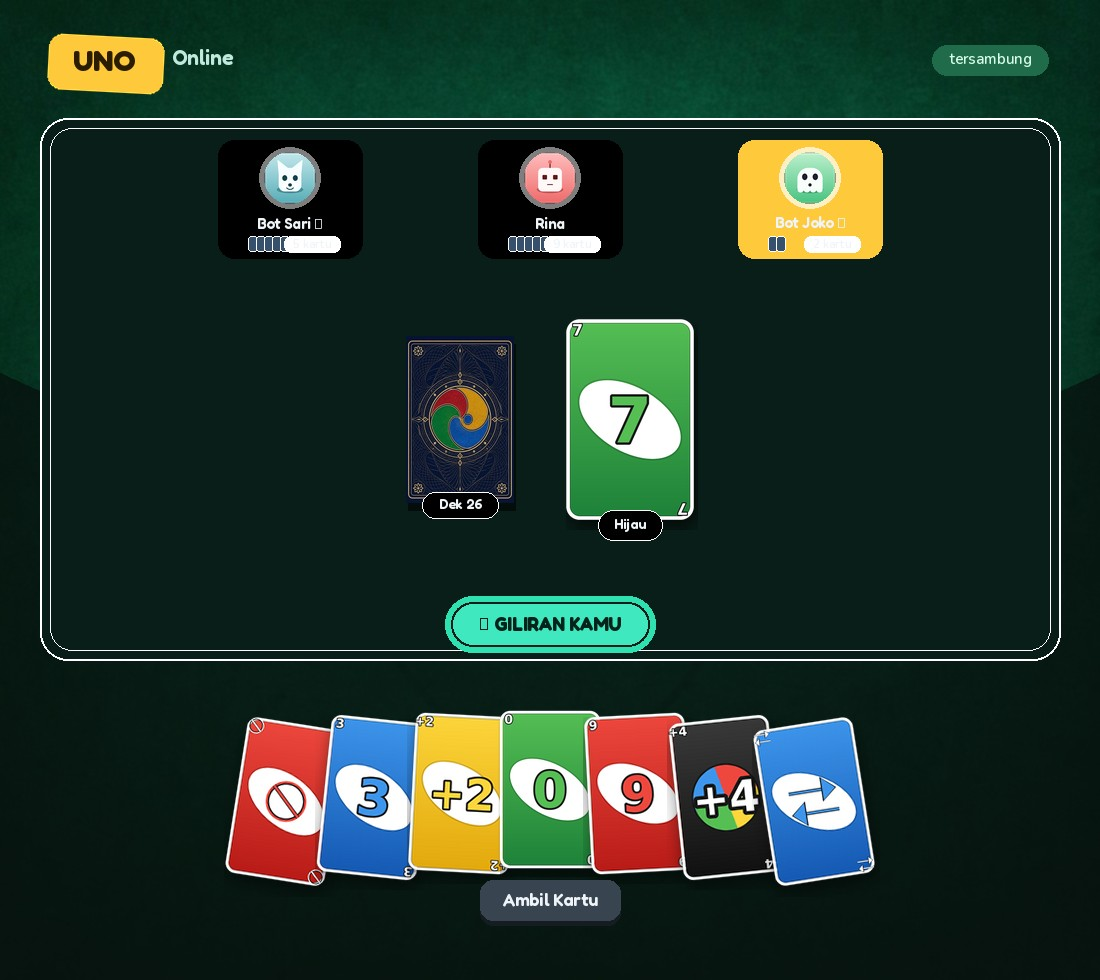
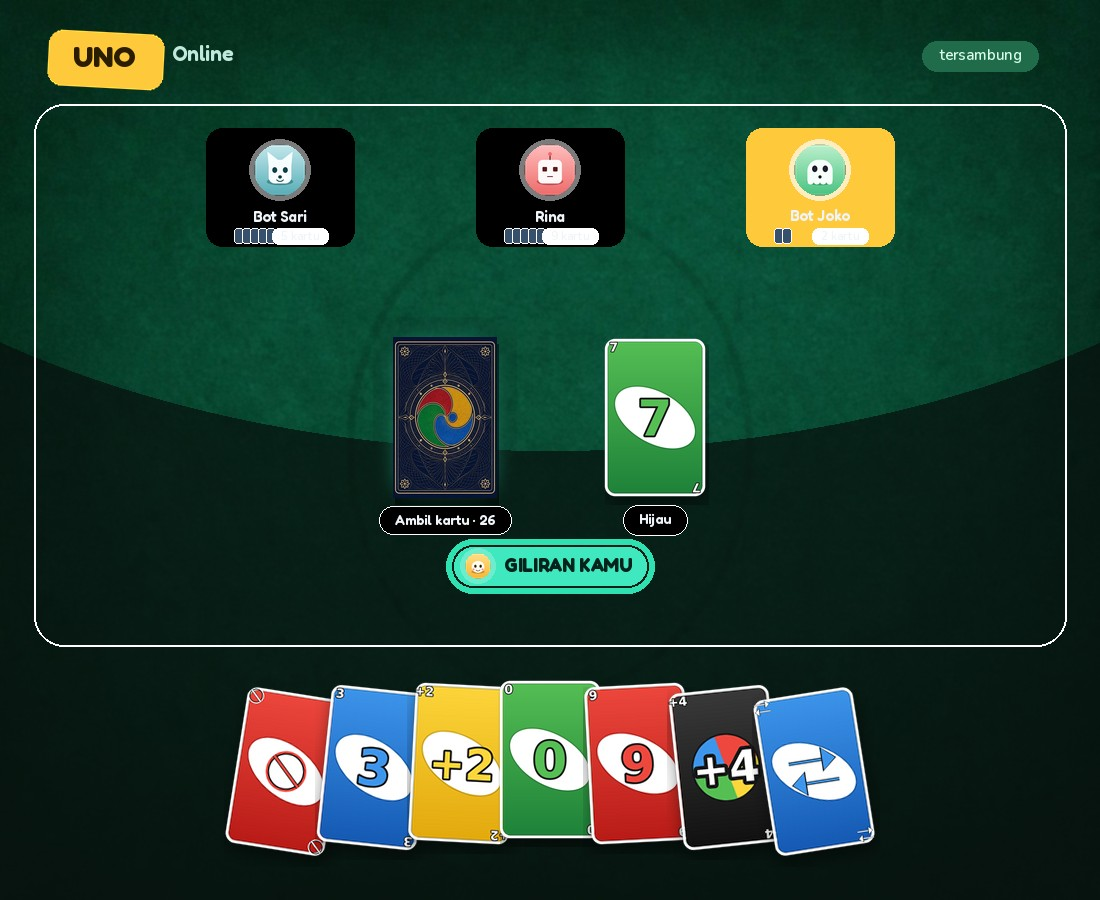
Perbaiki tata letak meja permainan
Tiga masalah dari laporan pemakaian:
1. Meja terlihat berada di dalam kotak panel, bukan langsung di atas felt seperti
   di pratinjau. Layar permainan sekarang keluar dari kolom .app (100vw) dan
   .table-felt tidak lagi punya latar/bingkai sendiri - felt halaman yang jadi
   mejanya, hanya ditandai cincin putus-putus.
2. Ada dua cara mengambil kartu (menekan tumpukan DAN tombol 'Ambil Kartu').
   Tombol dihapus. Tumpukan sekarang berdenyut dan bercahaya saat giliranmu,
   dengan label 'Ambil kartu - N' supaya jelas bisa diklik.
3. Kartu di tumpukan buangan menempel terlalu dekat dengan tumpukan ambil.
   Jarak antar tumpukan jadi clamp(44px, 9vw, 96px) dan tiap tumpukan punya
   lebar minimum, jadi tidak akan bertabrakan di ukuran layar mana pun.

Pita giliran juga dipindah ke aliran normal (tidak lagi absolute) supaya tidak
menimpa apa pun.

docs/preview-game.jpg diperbarui.

diff --git a/client/style.css b/client/style.css
@@ -61,12 +61,14 @@ body {
     background-position: center;
     background-attachment: fixed;
     -webkit-font-smoothing: antialiased;
+    /* #screenGame memakai 100vw untuk keluar dari kolom; cegah geser horizontal */
+    overflow-x: hidden;
 }
 
 /* --- Kerangka ------------------------------------------------------------- */
 .app {
     width: 100%;
-    max-width: 1080px;
+    max-width: 1180px;
     margin: 0 auto;
     padding: 18px 16px 48px;
     min-height: 100%;
@@ -403,24 +405,30 @@ input[type="text"]:focus { outline: none; border-color: var(--mint); box-shadow:
 .tag.bot  { color: var(--violet); }
 
 /* --- Meja permainan ------------------------------------------------------- */
-.table-wrap { display: flex; justify-content: center; }
+/* Layar permainan keluar dari kolom .app supaya duduk LANGSUNG di atas felt,
+   bukan berada di dalam kotak panel. */
+#screenGame {
+    width: 100vw;
+    margin-left: calc(50% - 50vw);
+    margin-right: calc(50% - 50vw);
+    padding: 0 clamp(8px, 2.5vw, 32px);
+}
+
+.table-wrap { display: block; }
+
+/* Meja tidak punya latar sendiri — felt halaman yang jadi mejanya. */
 .table-felt {
     position: relative;
     width: 100%;
-    border-radius: 28px;
-    padding: 18px 18px 92px;
-    background:
-        radial-gradient(ellipse 70% 60% at 50% 45%, rgba(255, 255, 255, .07), transparent 70%),
-        linear-gradient(180deg, rgba(10, 30, 24, .72), rgba(6, 20, 16, .86));
-    border: 2px solid rgba(255, 255, 255, .07);
-    box-shadow: inset 0 0 0 8px rgba(0, 0, 0, .22), inset 0 0 60px rgba(0, 0, 0, .55), 0 20px 40px rgba(0, 0, 0, .4);
+    padding: 14px 14px 10px;
 }
 .table-felt::after {
     content: '';
     position: absolute;
-    inset: 10px;
-    border: 1px dashed rgba(255, 255, 255, .09);
-    border-radius: 22px;
+    inset: 2px;
+    border: 2px dashed rgba(255, 255, 255, .10);
+    border-radius: 30px;
+    box-shadow: inset 0 0 90px rgba(0, 0, 0, .40);
     pointer-events: none;
 }
 
@@ -485,12 +493,12 @@ input[type="text"]:focus { outline: none; border-color: var(--mint); box-shadow:
 .table-center {
     display: flex;
     justify-content: center;
-    align-items: center;
-    gap: 34px;
-    padding: 14px 0 6px;
-    min-height: 158px;
+    align-items: flex-start;
+    gap: clamp(44px, 9vw, 96px);
+    padding: 20px 0 8px;
+    min-height: 172px;
 }
-.pile { display: flex; flex-direction: column; align-items: center; gap: 9px; }
+.pile { display: flex; flex-direction: column; align-items: center; gap: 9px; min-width: 108px; }
 .pile-label {
     font-family: 'Fredoka', sans-serif;
     font-size: .78rem;
@@ -513,6 +521,17 @@ input[type="text"]:focus { outline: none; border-color: var(--mint); box-shadow:
     filter: drop-shadow(0 10px 14px rgba(0, 0, 0, .6));
 }
 .card-back-img:hover { transform: translateY(-6px) rotate(-2deg); filter: drop-shadow(0 14px 18px rgba(0,0,0,.65)) brightness(1.08); }
+/* Tumpukan berdenyut saat giliranmu — ini satu-satunya cara mengambil kartu,
+   jadi harus jelas terlihat bisa diklik. */
+.card-back-img.can-draw {
+    cursor: pointer;
+    animation: deck-nudge 1.8s ease-in-out infinite;
+    filter: drop-shadow(0 0 16px var(--mint)) drop-shadow(0 10px 14px rgba(0, 0, 0, .6));
+}
+@keyframes deck-nudge {
+    0%, 100% { transform: translateY(0) rotate(0deg); }
+    50%      { transform: translateY(-8px) rotate(-2.5deg); }
+}
 /* Kartu di tumpukan buangan dibuat seukuran punggung kartu */
 .card-display .card.image-card,
 .card-display .card.image-card.small { width: 92px; height: 142px; }
@@ -527,10 +546,9 @@ input[type="text"]:focus { outline: none; border-color: var(--mint); box-shadow:
 
 /* Pita giliran */
 .turn-banner {
-    position: absolute;
-    left: 50%;
-    bottom: 18px;
-    transform: translateX(-50%);
+    position: relative;
+    margin: 20px auto 8px;
+    width: fit-content;
     display: flex;
     align-items: center;
     gap: 9px;
@@ -579,7 +597,6 @@ input[type="text"]:focus { outline: none; border-color: var(--mint); box-shadow:
 .deal-in { animation: deal-in .3s cubic-bezier(.2, .9, .3, 1.2) backwards; }
 @keyframes deal-in { from { transform: translateY(70px) scale(.7); opacity: 0; } }
 
-.hand-actions { margin-top: 6px; }
 .game-actions { margin-top: 18px; }
 
 /* --- Obrolan -------------------------------------------------------------- */
@@ -697,11 +714,12 @@ input[type="text"]:focus { outline: none; border-color: var(--mint); box-shadow:
     .card-display .card.image-card,
     .card-display .card.image-card.small { width: 72px; height: 111px; }
     .card-back-img { width: 72px; height: 111px; }
-    .table-center { gap: 20px; min-height: 128px; }
+    .table-center { gap: 40px; min-height: 136px; }
+    .pile { min-width: 84px; }
     .seat { min-width: 84px; padding: 8px; }
     .seat .avatar-ring { width: 42px; height: 42px; }
     .hand-cards { min-height: 116px; }
-    .turn-banner { font-size: .85rem; padding: 7px 15px; bottom: 12px; }
+    .turn-banner { font-size: .85rem; padding: 7px 15px; margin-top: 14px; }
     .chat-log { height: 132px; }
     .player-grid { grid-template-columns: 1fr; }
     .brand-sub { display: none; }

diff --git a/client/app.js b/client/app.js
@@ -73,7 +73,6 @@ const el = {
     discardPileTopCard: $('discardPileTopCard'),
     drawPile: $('drawPile'),
     playerHand: document.querySelector('.hand-cards'),
-    drawCardBtn: $('drawCardBtn'),
     rematchBtn: $('rematchBtn'),
     leaveGameBtn: $('leaveGameBtn'),
 
@@ -587,7 +586,7 @@ function renderGame() {
         el.opponents.innerHTML = '';
         el.playerHand.innerHTML = '';
         el.discardPileTopCard.innerHTML = '';
-        el.drawCardBtn.disabled = true;
+        el.drawPile.classList.remove('can-draw');
         el.rematchBtn.hidden = true;
         return;
     }
@@ -624,7 +623,7 @@ function renderGame() {
 
     el.activeColor.textContent = colorLabel(game.currentColor);
     el.deckInfo.textContent =
-        `Dek ${game.deckCount}` + (game.direction === -1 ? ' ↺' : '');
+        `Ambil kartu · ${game.deckCount}` + (game.direction === -1 ? ' ↺' : '');
 
     // Cahaya di tumpukan buangan mengikuti warna aktif
     const glow = {
@@ -693,7 +692,8 @@ function renderGame() {
         el.playerHand.appendChild(cardEl);
     });
 
-    el.drawCardBtn.disabled = !app.isMyTurn;
+    // Mengambil kartu dilakukan dengan menekan tumpukan — tidak ada tombol kedua.
+    el.drawPile.classList.toggle('can-draw', app.isMyTurn);
     el.rematchBtn.hidden = !(game.winner !== null && isHost());
 }
 
@@ -756,7 +756,6 @@ function drawCard() {
 // Event listener
 // ---------------------------------------------------------------------------
 
-el.drawCardBtn.addEventListener('click', drawCard);
 el.drawPile.addEventListener('click', drawCard);
 
 el.saveProfileBtn.addEventListener('click', submitProfile);

diff --git a/client/index.html b/client/index.html
@@ -134,9 +134,6 @@
 
         <div class="hand-zone" id="playerHand">
             <div class="hand-cards"></div>
-            <div class="hand-actions">
-                <button id="drawCardBtn" class="secondary">Ambil Kartu</button>
-            </div>
         </div>
 
         <div class="row game-actions">
